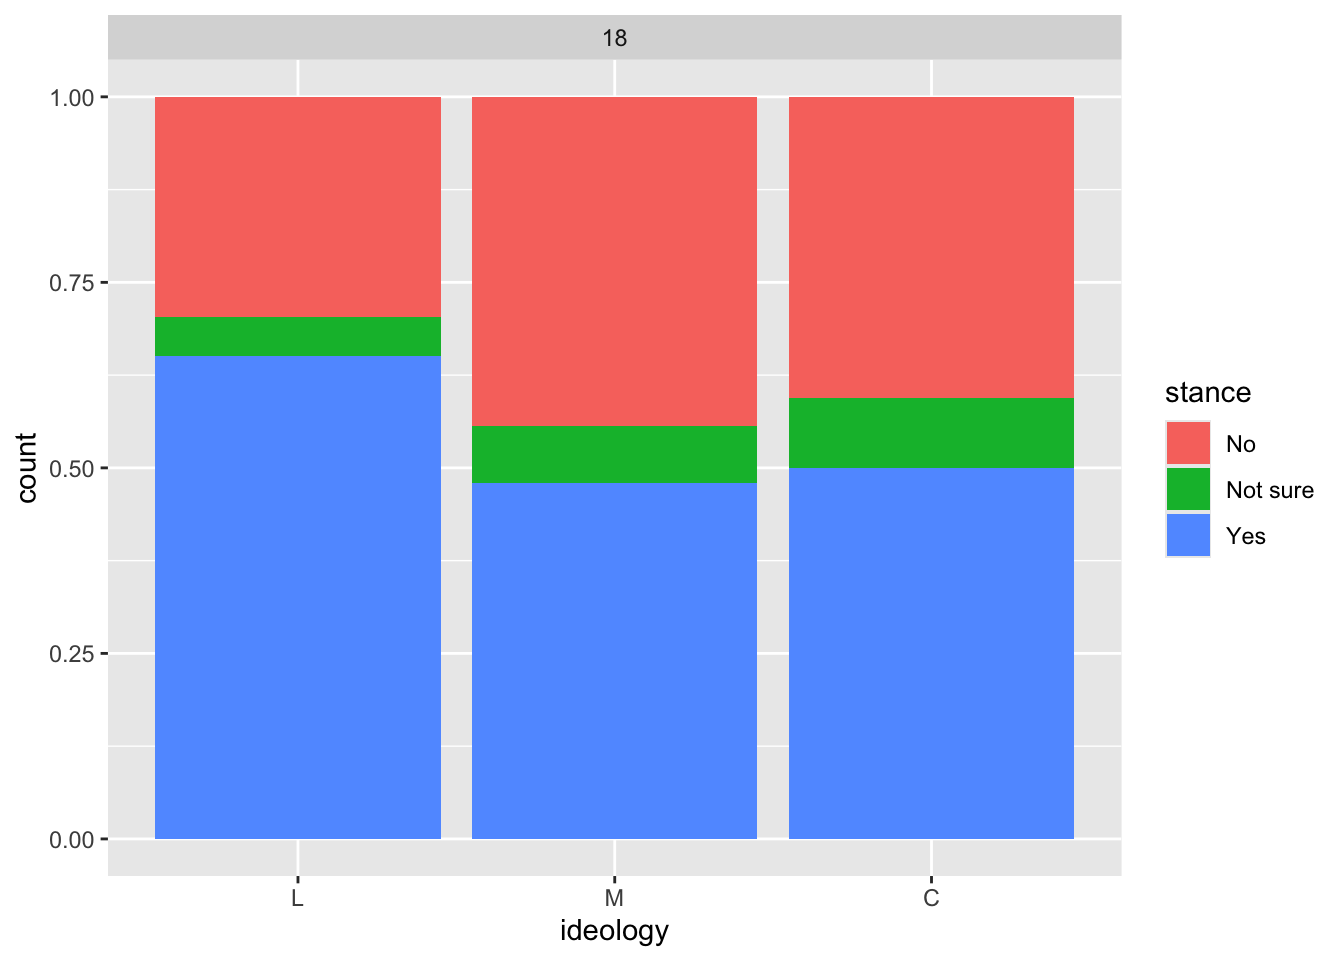
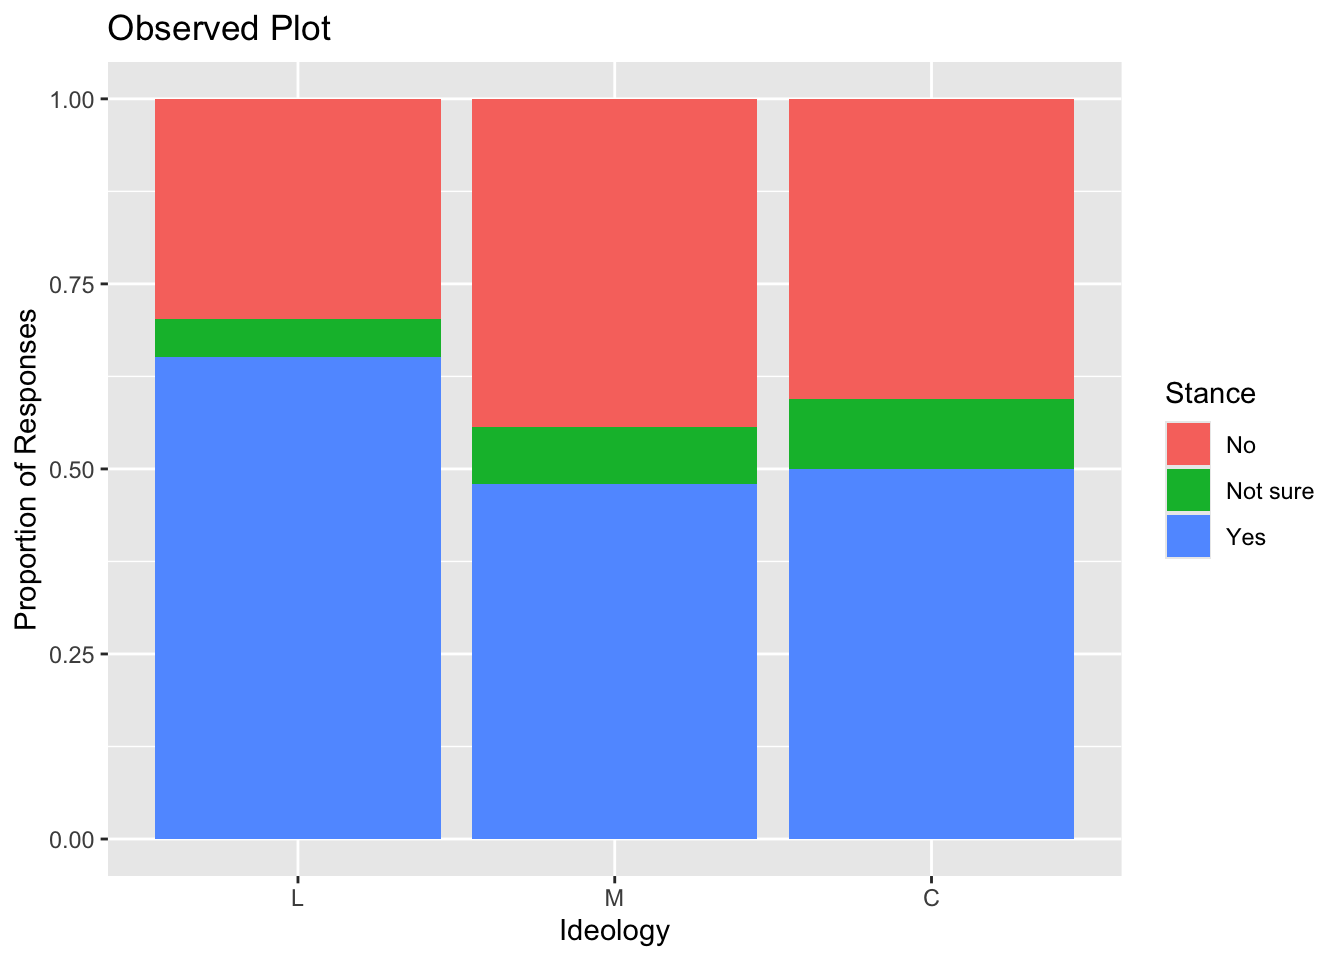
actually turn in

diff --git a/docs/miniproj_3.html b/docs/miniproj_3.html
@@ -323,7 +323,7 @@ pre > code.sourceCode > span > a:first-child::before { text-decoration: underlin
 <span id="cb5-5"><a href="#cb5-5" aria-hidden="true" tabindex="-1"></a>obs_dream<span class="sc">|&gt;</span></span>
 <span id="cb5-6"><a href="#cb5-6" aria-hidden="true" tabindex="-1"></a>   <span class="fu">ggplot</span>(<span class="fu">aes</span>(<span class="at">x =</span> ideology, <span class="at">fill =</span> stance)) <span class="sc">+</span></span>
 <span id="cb5-7"><a href="#cb5-7" aria-hidden="true" tabindex="-1"></a>    <span class="fu">geom_bar</span>(<span class="at">position =</span> <span class="st">"fill"</span>) <span class="sc">+</span></span>
-<span id="cb5-8"><a href="#cb5-8" aria-hidden="true" tabindex="-1"></a>    <span class="fu">facet_wrap</span>(<span class="sc">~</span>repeated)</span></code><button title="Copy to Clipboard" class="code-copy-button"><i class="bi"></i></button></pre></div>
+<span id="cb5-8"><a href="#cb5-8" aria-hidden="true" tabindex="-1"></a>   <span class="fu">labs</span>(<span class="at">x =</span> <span class="st">"Ideology"</span>, <span class="at">y =</span> <span class="st">"Proportion of Responses"</span>, <span class="at">title =</span> <span class="st">"Observed Plot"</span>, <span class="at">fill =</span> <span class="st">"Stance"</span>)</span></code><button title="Copy to Clipboard" class="code-copy-button"><i class="bi"></i></button></pre></div>
 </details>
 <div class="cell-output-display">
 <div>
